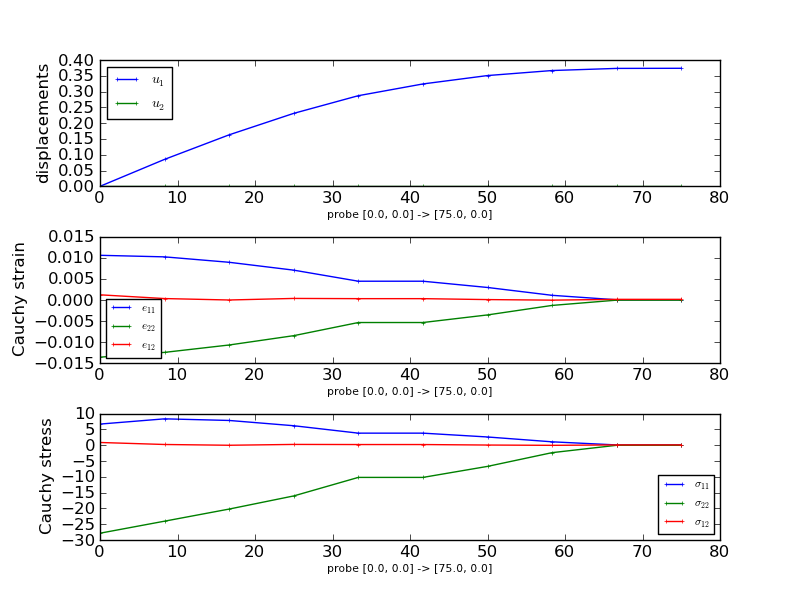
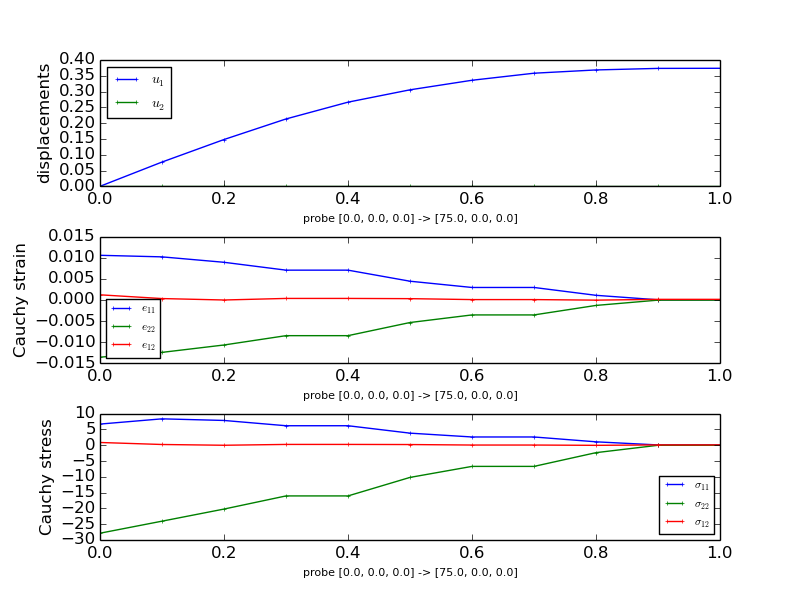
Primer - use VTK probes

diff --git a/doc/primer.rst b/doc/primer.rst
@@ -582,34 +582,36 @@ Probing
 
 As a bonus for sticking to the end of this tutorial see the following
 :download:`problem definition file
-</../examples/linear_elasticity/its2D_4.py>` that provides *SfePy*
+</../examples/linear_elasticity/its2D_5.py>` that provides *SfePy*
 functions to quickly and neatly probe the solution.
 
-.. literalinclude:: /../examples/linear_elasticity/its2D_4.py
+.. literalinclude:: /../examples/linear_elasticity/its2D_5.py
 
 Probing applies interpolation to output the solution along specified
 paths. For the tutorial, line probing is done along the x- and y-axes of
 the model.
 
-Notice that the output_format has been defined as h5. To apply probing
-first solve the problem as usual::
+Run SfePy to solve the problem and apply the probes::
 
-    $ ./simple.py its2D_4.py
+    $ ./simple.py its2D_5.py
 
-This will write the solution to the output directory indicated. Then run
-the *SfePy* probe.py script on the solution::
-
-    $ ./probe.py its2D_4.py <sfepy output path>/its2D.h5
-
-The results of the probing will be written to text files and the following
-figures will be generated. These figures show the displacements, normal
-stresses and strains as well as shear stresses and strains along the probe
-paths. Note that you need `matplotlib`_ installed to run this script.
+The probing function will generate the following figures that show the
+displacements, normal stresses and strains as well as shear stresses
+and strains along the probe paths. Note that you need `matplotlib`_
+installed to run this example.
 
 .. image:: images/primer/its2D_0.png
-   :width: 40 %
+   :width: 48 %
 
 .. image:: images/primer/its2D_01.png
-   :width: 40 %
+   :width: 48 %
+
+The probing function also generates previews of the mesh with the probe paths.
+
+.. image:: images/primer/probe_its2D_line0.png
+   :width: 30 %
+
+.. image:: images/primer/probe_its2D_line1.png
+   :width: 30 %
 
 The end.
